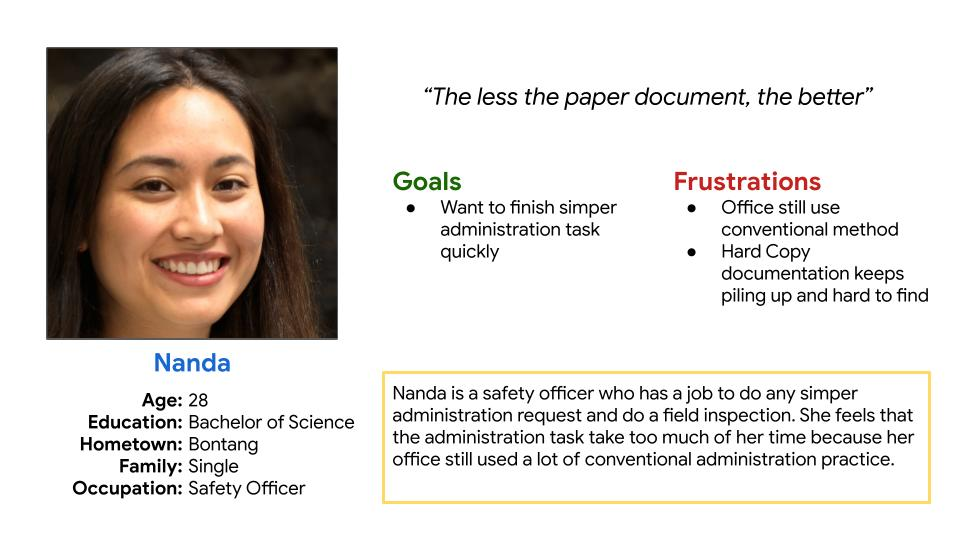
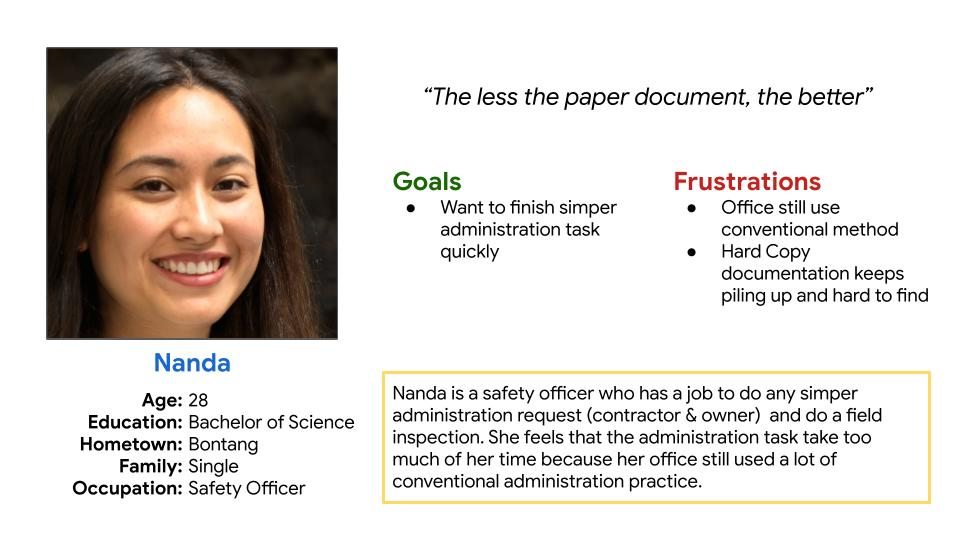
update persona and user journey

Changed region(s): [[0.4062, 0.7407, 0.9688, 0.9185]]

diff --git a/pages/project/esimper.js b/pages/project/esimper.js
@@ -105,7 +105,8 @@ export default function esimper() {
                 Outdated
               </h6>
               <p className="text-justify text-slate-700 mt-2">
-                Users need an easier method to manage Simper administration
+                Users need an easier method to manage Simper administration for
+                owner and contractor
               </p>
             </div>
           </div>
